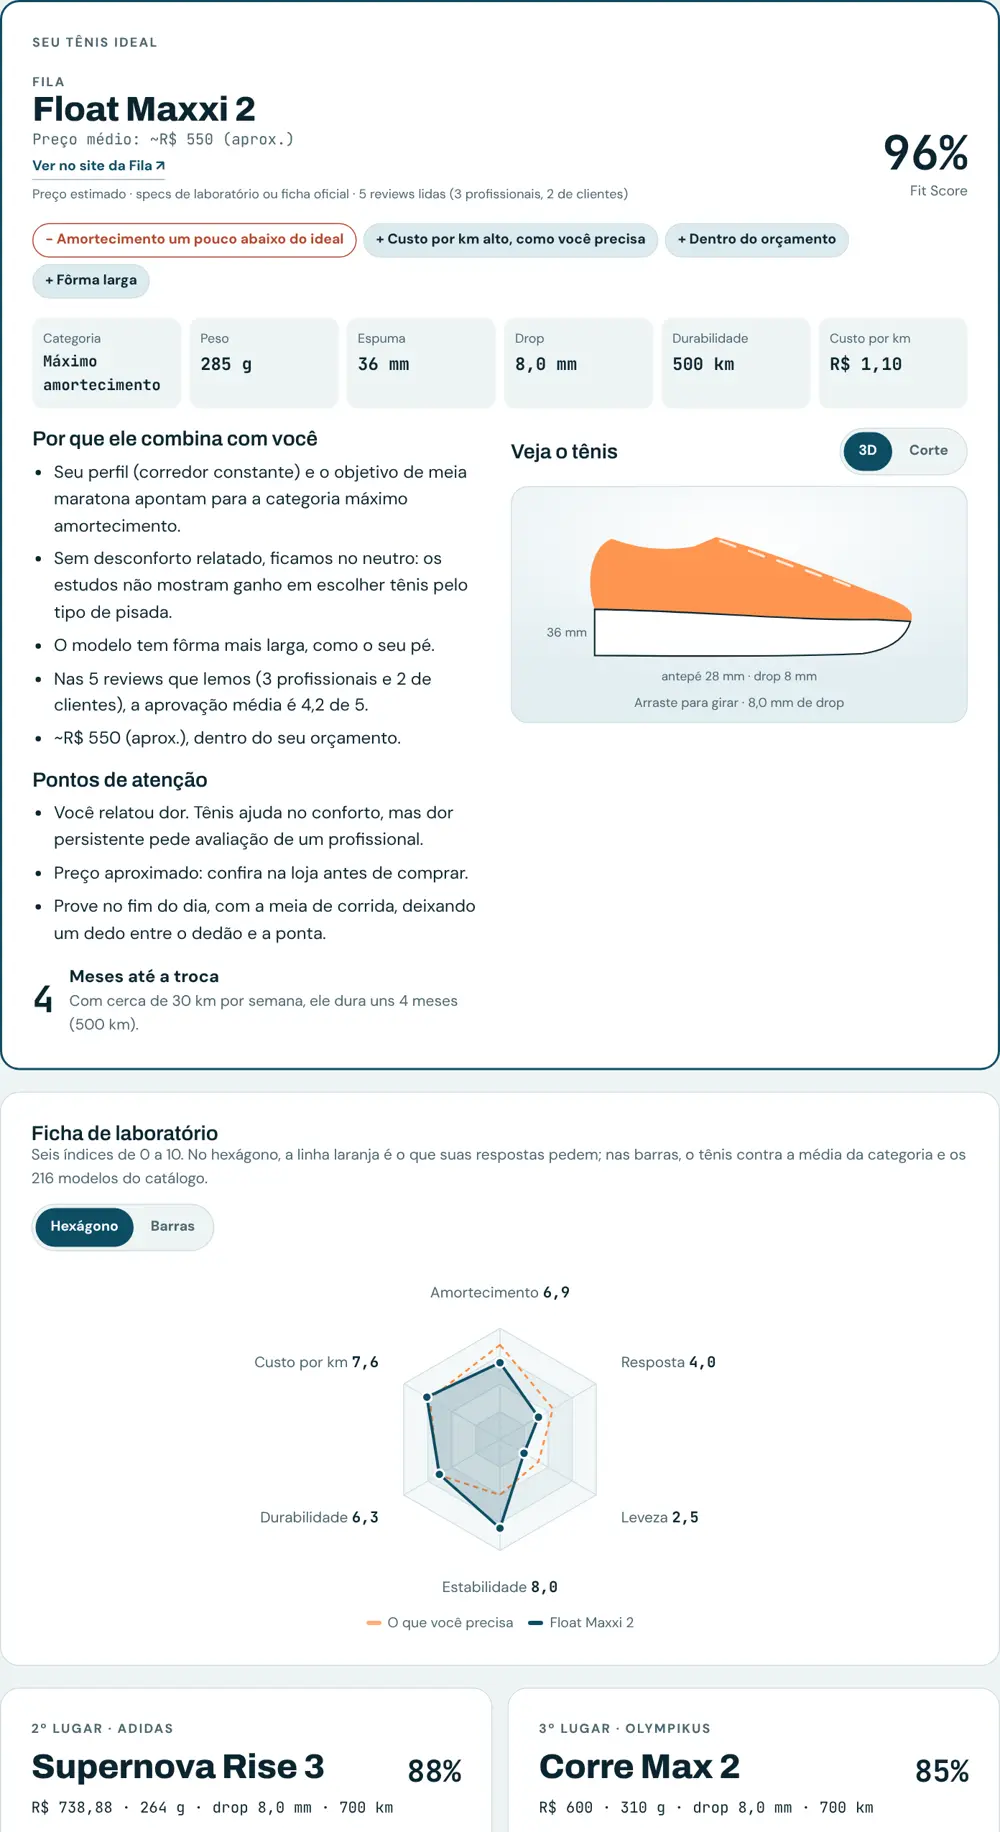
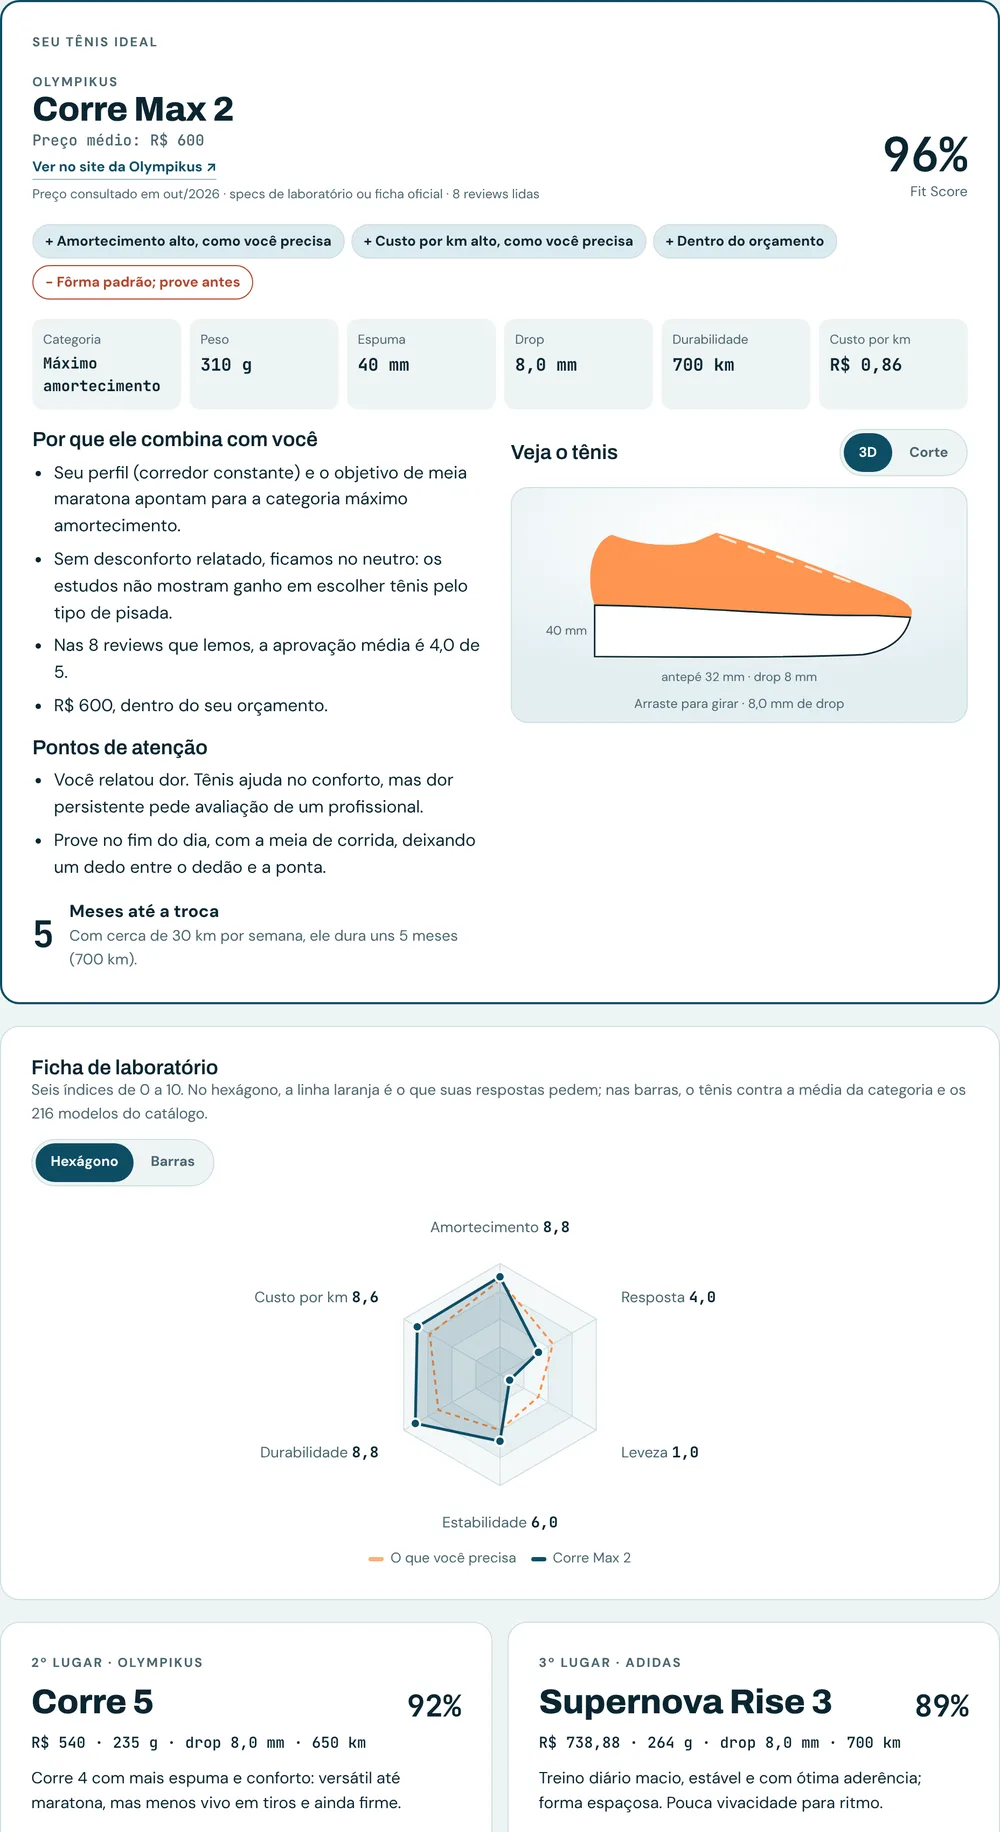
Tenis Match: motor sem viés de marca, specs técnicas no ranking e Fila fora do pódio
- Encaixe por specs técnicas: amortecimento, resposta, leveza e
  estabilidade do tênis (índices do hexágono) contra o que o perfil pede;
  falta pesa mais que sobra.
- Etiqueta "não indicado" deixa de punir quem tem mais reviews; "não
  indicado para ritmo" só pesa forte em tênis de velocidade.
- Nota das reviews puxada para a média com pouca evidência; menos de 4
  reviews profissionais e preço estimado pesam contra.
- Preço: abaixo da faixa e um pouco acima do orçamento perdem pontos.
- Categoria com poucos modelos não monopoliza; conforto não soma maciez
  para quem prefere firme.
- Fila fora do top 3 e do segundo par (decisão editorial).
- Rodada 3 registrada em docs/tenis e imagem do relatório atualizada.

Claude-Session: https://claude.ai/code/session_01FbpqAMRyzRYWWu6N8zBjm6

diff --git a/apps/tenis/index.html b/apps/tenis/index.html
@@ -539,6 +539,8 @@ const M=[
  ["adidas Terrex Tracefinder 2", "adidas", "tri", 499.9, 340, 10.0, 2.0, 600, 0, 1, "Trilha de entrada barato e pesado, mais para caminhada, estradão e trote curto; tração básica.", 29.0, 19.0, 1.5, 4.0, 3.0, 1, "", "tri dia", "rap lon lama fore", "ini hee dia", 1, "", "https://www.adidas.com.br/tenis-corrida-trilha-tracefinder/JI4285.html", "produto", 1, 0, ""],
  ["adidas Ultraboost 5", "adidas", "con", 699.99, 274, 11.8, 3.4, 800, 0, 0, "Ótimo para o dia a dia e corrida leve: durável, aderente e espaçoso. Pesado e firme para longão ou ritmo.", 39.5, 27.7, 3.1, 3.0, 3.4, 11, "", "aca dia lon mei rod", "lon rap", "dia hee ini lar", 1, "maciez, estabilidade", "https://www.adidas.com.br/tenis-ultraboost-5/KI8561.html", "produto", 11, 0, ""]
 ].map(x=>({n:x[0],b:x[1],c:x[2],p:x[3],g:x[4],dr:x[5],mz:x[6],du:x[7],lg:x[8],ap:x[9],nt:x[10],hs:x[11],fs:x[12],rs:x[13],es:x[14],sc:x[15],nr:x[16],pl:x[17],u:x[18].split(' ').filter(Boolean),nn:x[19].split(' ').filter(Boolean),o:x[20].split(' ').filter(Boolean),br:x[21],dv:x[22]||'',url:x[23],ut:x[24],np:x[25],nc:x[26],tam:x[27]}));
+// decisão editorial (out/2026): a Fila tem specs só de ficha e poucas reviews independentes
+const PODIO_FORA=['Fila'];
 const BUD=[[0,400],[400,700],[700,1000],[1000,1500],[1500,99999]];
 const PROF=['Primeiros Quilômetros','Corredor em Construção','Corredor Constante','Corredor de Prova','Corredor de Alta Quilometragem'];
 /* traços do corredor e usos pedidos, no mesmo vocabulário das reviews */
@@ -579,37 +581,50 @@ function engine(a,long){
   if(orc===0){add('ent',3);add('sup',-3);add('est',-1)}
   const cats=Object.entries(sc).filter(x=>x[1]>0).sort((p,q)=>q[1]-p[1]);
   const c1=cats[0][0],c2=cats[1]?cats[1][0]:c1;
+  // categoria com poucos modelos não monopoliza: a 2ª categoria chega mais perto
+  const w2=M.filter(m=>m.c===c1).length<10?8:6;
+  // o que o perfil pede em amortecimento, resposta, leveza e estabilidade (mesmos índices do hexágono)
+  const ID=idealVec(a);
+  // leveza só pesa para quem pediu leveza ou faz ritmo; "não indicado para ritmo" só pesa quando o tênis é para velocidade
+  const fast=c1==='rap'||c1==='sup',lw=prior===2||obj===1||g('treino',0)===2?0.45:0.15;
+  if(!fast)ID[1]=Math.min(ID[1],6);
   const [bmin,bmax]=BUD[orc];
   const pi=g('pisada',3);
   const sm=(m,relax)=>{
-    let s=m.c===c1?10:m.c===c2?6:relax?2:-99;
-    if(m.p>bmax*1.08)s-=6+(m.p-bmax)/150;else if(m.p<bmin*0.6&&orc>=2)s-=1.5;else s+=1.5;
-    s-=Math.abs(m.mz-[4.5,3.5,2.3][sens])*0.9;
+    let s=m.c===c1?10:m.c===c2?w2:relax?2:-99;
+    if(m.p>bmax*1.08)s-=6+(m.p-bmax)/150;else if(m.p>bmax)s-=0.5;else s+=1.5-(prior===3?0:Math.min(2,Math.max(0,bmin-m.p)/200));
+    s-=Math.abs(m.mz-[4.5,3.5,2.3][sens])*0.7;
+    // specs técnicas: falta do que você precisa pesa mais que sobra
+    const iv=idx(m);for(let i=0;i<4;i++){const d=iv[i]-ID[i];s-=d<0?-d*(i===2?lw:0.45):d*0.12}
     if(heavy&&m.mz>=4)s+=1.2;if(heavy&&m.g<215)s-=1;
     if(g('largura',1)===2&&m.lg)s+=2;if(g('largura',1)===2&&!m.lg)s-=0.6;
-    if(prior===1)s+=(m.du-550)/120;if(prior===2)s+=(260-m.g)/25;if(prior===3)s+=(700-m.p)/350;if(prior===0)s+=(m.mz-3)*0.6;
+    if(prior===1)s+=(m.du-550)/120;if(prior===2)s+=(260-m.g)/25;if(prior===3)s+=(700-m.p)/350;if(prior===0&&sens!==2)s+=(m.mz-3)*0.6;
     if(dor===4&&m.mz>=5)s-=1.5;
     if(pi===0&&m.dr<7)s-=1.2;if(pi===2&&m.dr>=10)s-=0.8;
     if(dor===6&&m.dr<7)s-=1.5;
     if(g('neutro',0)===1)s+=(m.es-3)*0.8;
     // consenso das reviews
     const uh=W.filter(w=>m.u.includes(w)).length;s+=Math.min(2.4,uh*1.2)-(uh?0:1);
-    const bad=m.nn.filter(t=>T.has(t)).length;s-=Math.min(8,bad*4);
+    // "não indicado" vem de 2+ reviews: com muitas reviews, 2 citações pesam um pouco menos
+    const nr=m.np+m.nc,bad=m.nn.filter(t=>T.has(t)).reduce((q,t)=>q+(t==='rap'&&!fast?0.35:1),0);s-=Math.min(7,bad*(3+Math.min(1,3/Math.max(1,nr))));
     s+=Math.min(1.6,m.o.filter(t=>T.has(t)).length*0.8);
-    s+=(m.sc-3.8)*1.5*Math.min(1,(m.np+m.nc*.35)/5);
-    if(m.ap)s-=0.3;
+    // nota das reviews puxada para a média quando há pouca evidência
+    const ne=m.np+m.nc*.35;s+=(m.sc-3.8)*1.8*ne/(ne+4);
+    if(m.ap)s-=0.6;
     if(!m.br)s-=3;
-    if(m.np<2)s-=0.8*(2-m.np)/2;
+    s-=0.45*(4-Math.min(4,m.np));
     return s;
   };
-  const ranked=M.map(m=>({m,s:sm(m)})).filter(x=>x.s>-50).sort((p,q)=>q.s-p.s);
+  let ranked=M.map(m=>({m,s:sm(m)})).filter(x=>x.s>-50).sort((p,q)=>q.s-p.s);
+  // pódio e segundo par sem as marcas de PODIO_FORA; elas seguem no top 10 e no ranking por marca
+  const pod=ranked.filter(x=>!PODIO_FORA.includes(x.m.b)).slice(0,3);ranked=[...pod,...ranked.filter(x=>!pod.includes(x))];
   const top=ranked.slice(0,3);
   const t0=top[0].s;
   const fins=top.map((x,idx)=>({m:x.m,fit:Math.round(Math.max(70,Math.min(97,96-idx*2-(t0-x.s)*2))),s:x.s}));
   let second=null;
   if(g('pares',0)===1||km>=3){
     const want=c1==='rap'?'dia':(obj===3||obj===2)&&level>=3?'sup':c1==='tri'?'dia':'rap';
-    const pool=M.filter(m=>m.c===want&&!fins.some(f=>f.m===m)).map(m=>({m,s:sm({...m,c:c1})})).sort((p,q)=>q.s-p.s);
+    const pool=M.filter(m=>m.c===want&&!PODIO_FORA.includes(m.b)&&!fins.some(f=>f.m===m)).map(m=>({m,s:sm({...m,c:c1})})).sort((p,q)=>q.s-p.s);
     second=pool[0]?pool[0].m:null;
   }
   const conf=Math.min(96,(long?87:79)+(cats[0][1]-(cats[1]?cats[1][1]:0))*1.1);

diff --git a/docs/tenis/calibracao-e-validacao.md b/docs/tenis/calibracao-e-validacao.md
@@ -1,5 +1,27 @@
 # Tenis Match — calibração e validação com reviews (out/2026)
 
+## Rodada 3: viés de marca (25/out/2026)
+- Teste com 40 perfis realistas (6 a 8 por objetivo, orçamentos de até R$ 400 a acima de R$ 1.500) e 5.000 perfis sorteados com todas as respostas.
+- **Vieses encontrados:** (1) etiqueta "não indicado" tirava 4 pontos por etiqueta, e marcas com mais reviews (Nike, ASICS) acumulam mais etiquetas; "não indicado para ritmo" punia até tênis de amortecimento; (2) pouca review era vantagem (Fila, Olympikus); (3) qualquer preço dentro do orçamento ganhava o mesmo bônus; (4) categoria com poucos modelos virava monopólio (Ultraboost 5 em "dia a dia"); (5) "prioridade conforto" somava maciez mesmo para quem prefere firme (prejudicava a On); (6) o motor pedia resposta de supertênis para quem prefere firme.
+- **Mudanças no motor:** encaixe por specs técnicas (amortecimento, resposta, leveza e estabilidade do hexágono contra o que o perfil pede; falta pesa 0,45 por ponto, sobra 0,12; leveza só pesa para quem pediu leveza ou faz ritmo; resposta limitada a 6 fora das categorias de velocidade); etiqueta negativa de 3 a 4 pontos conforme o nº de reviews, teto 7; "não indicado para ritmo" vale 35% quando o tênis não é de velocidade; nota das reviews puxada para a média com pouca evidência (peso n/(n+4)); −0,45 por review profissional a menos que 4; preço estimado −0,6; abaixo da faixa de orçamento perde até 2 pontos (exceto prioridade preço); até 8% acima perde 0,5; categoria com menos de 10 modelos dá 8 pontos à 2ª categoria.
+- **Decisão editorial:** a Fila não entra no pódio nem como segundo par (`PODIO_FORA`). Continua no top 10 e no ranking por marca.
+
+| 1º lugar nos 40 perfis | Antes | Depois |
+|---|---|---|
+| adidas | 12 | 10 |
+| Olympikus | 5 | 9 |
+| ASICS | 6 | 6 |
+| Nike | 4 | 5 |
+| New Balance | 2 | 4 |
+| Hoka | 2 | 3 |
+| Mizuno | 2 | 2 |
+| Brooks | 0 | 1 |
+| Fila | 7 | 0 |
+
+- **Sem piora:** nenhum pódio fora da categoria (0/120 e 0/15.000); pódios com 2+ contraindicações reais 91 → 93 em 15.000 vagas; pódios com preço estimado 1.080 → 202. Maratona competitiva: Vaporfly 4, Hyperwarp Elite, Metaspeed Sky Tokyo. Desconforto com neutro: GT-2000 15, Wave Inspire 22, ForeverRun Nitro 2.
+- **On:** com orçamento acima de R$ 1.000 e preferência por firme, aparece em 89 vagas de pódio (era 143 no motor antigo e 69 na primeira versão desta rodada). Nenhum On custa menos de R$ 999, a nota média das reviews é a menor entre as marcas grandes (3,74) e a resposta medida é baixa em vários modelos (Cloudflow 5: 1,6 de 5).
+- **Pendências:** Olympikus passou a ocupar parte do espaço da Fila (1º lugar em 19% dos sorteios, 6% do catálogo), com specs que parecem de ficha (números redondos); registrar a origem das specs (laboratório ou ficha) e pesar menos as de ficha. Conferir "vendido no Brasil" de New Balance (52% marcados como importados) e Salomon (75%), e a resposta da On.
+
 ## Rodada 2: validação com reviews profissionais
 - 8 agentes percorreram os 231 tênis. Só reviews profissionais com teste real ou de laboratório (RTINGS, RunRepeat, Doctors of Running, Road Trail Run, Believe in the Run, Running Shoes Guru, The Run Testers, Solereview, Running Warehouse, iRunFar, OutdoorGearLab, Tom's Guide e blogs BR com teste real para a Olympikus).
 - +293 reviews novas em 138 modelos. Base: 795 → **1.088 reviews**.

diff --git a/docs/tenis/catalogo.md b/docs/tenis/catalogo.md
@@ -39,6 +39,7 @@ Kayano 33, GT-2000 15, Nimbus 28, Novablast 6, Superblast 3, Adios Pro 5, Ultrab
 - Influência das perguntas (% de perfis em que mudar a resposta troca o top 3): Orçamento 93% · Objetivo 90% · Prioridade 66% · Neutro/estabilidade 57% · Sensação 53% · Largura 48% · Peso 43% · Treino de ritmo 38% · Pisada 38% · Calor 35% · Terreno 33% · Uso fora da corrida 33% · Dor 31% · Km por semana 30% · Há quanto tempo corre 15% · Pace 7%.
 
 ## Resultado para o usuário
+- **Pódio:** a Fila não entra no top 3 nem como segundo par (decisão editorial de out/2026, ver rodada 3 em `calibracao-e-validacao.md`).
 - **Preço:** relatório único de R$ 9,99 com tudo abaixo (desde 24/out/2026; antes R$ 7,99 o tênis ideal e R$ 12,90 o setup completo).
 - **Top 10:** os 10 tênis que mais combinam, com Fit Score, marca, categoria, preço e custo por km. Ordena por match, preço ou custo/km.
 - **Top 3:** escolha entre top 3 geral e top 3 de uma marca, com 3D, hexágono, mapa do catálogo e tabela.
